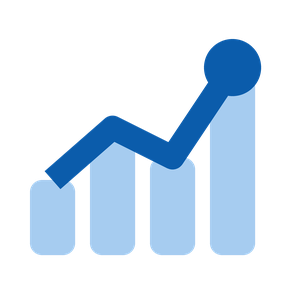
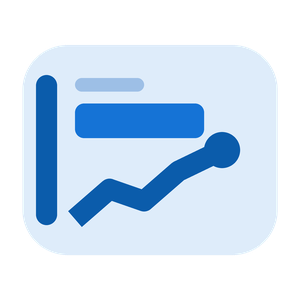
feat: novo icone (cartao+valor+sparkline), transparencia por cor de fundo e ajustes
Icone redesenhado para representar o KPI Spark Card (cartao com barra de destaque, valor e sparkline). Controle de transparencia (0-100%) para cada cor de fundo (cartao, badges de variancia, fundo da barra de meta, chips). Correcao do email do autor.

diff --git a/src/utils/colorUtils.ts b/src/utils/colorUtils.ts
@@ -13,3 +13,23 @@ export function isValidColor(color: string | undefined | null): boolean {
 export function safeColor(color: string | undefined | null, fallback: string): string {
     return isValidColor(color) ? (color as string) : fallback;
 }
+
+function hexToRgb(hex: string): { r: number; g: number; b: number } | null {
+    if (!HEX_COLOR_REGEX.test(hex)) return null;
+    let h = hex.slice(1);
+    if (h.length === 3) h = h.split("").map((c) => c + c).join("");
+    const n = parseInt(h, 16);
+    return { r: (n >> 16) & 255, g: (n >> 8) & 255, b: n & 255 };
+}
+
+/**
+ * Aplica transparencia (0-100, padrao nativo: 0 = opaco, 100 = totalmente transparente)
+ * a uma cor hex, retornando rgba(). Se a cor nao for hex (ex: ja for rgba), retorna sem alterar.
+ */
+export function applyOpacity(color: string, transparencyPct: number): string {
+    const rgb = hexToRgb(color);
+    if (!rgb) return color;
+    const t = Math.min(100, Math.max(0, transparencyPct));
+    const alpha = Math.round(((100 - t) / 100) * 1000) / 1000;
+    return `rgba(${rgb.r}, ${rgb.g}, ${rgb.b}, ${alpha})`;
+}

diff --git a/src/renderers/cardParts.ts b/src/renderers/cardParts.ts
@@ -11,7 +11,7 @@ import { SparklineBuilder, SparklineType } from "../components/SparklineBuilder"
 import { ProgressBarRenderer } from "../components/ProgressBarRenderer";
 import { valueFormatter } from "powerbi-visuals-utils-formattingutils";
 import { createHTMLElement, createSVGElement, setSVGAttributes } from "../utils/domUtils";
-import { safeColor } from "../utils/colorUtils";
+import { safeColor, applyOpacity } from "../utils/colorUtils";
 import { DEFAULT_COLORS, DEFAULT_LOCALE } from "../constants";
 
 export interface RenderContext {
@@ -80,7 +80,7 @@ export function buildCardSurface(ctx: RenderContext): CardSurface {
         boxSizing: "border-box",
         width: "100%",
         height: "100%",
-        background: safeColor(s.backgroundColor.value.value, DEFAULT_COLORS.cardBackground),
+        background: applyOpacity(safeColor(s.backgroundColor.value.value, DEFAULT_COLORS.cardBackground), s.backgroundTransparency.value),
         border: `${s.borderWidth.value}px solid ${safeColor(s.borderColor.value.value, DEFAULT_COLORS.cardBorder)}`,
         borderRadius: `${s.borderRadius.value}px`,
         overflow: "hidden",
@@ -184,13 +184,13 @@ export function buildVarianceBadge(ctx: RenderContext): HTMLElement | null {
     let bg: string;
     if (result.direction === "neutral") {
         color = safeColor(vs.colorNeutral.value.value, DEFAULT_COLORS.varNeutralText);
-        bg = safeColor(vs.bgNeutral.value.value, DEFAULT_COLORS.varNeutralBg);
+        bg = applyOpacity(safeColor(vs.bgNeutral.value.value, DEFAULT_COLORS.varNeutralBg), vs.bgNeutralTransparency.value);
     } else if (result.isGood) {
         color = safeColor(vs.colorPositive.value.value, DEFAULT_COLORS.varPositiveText);
-        bg = safeColor(vs.bgPositive.value.value, DEFAULT_COLORS.varPositiveBg);
+        bg = applyOpacity(safeColor(vs.bgPositive.value.value, DEFAULT_COLORS.varPositiveBg), vs.bgPositiveTransparency.value);
     } else {
         color = safeColor(vs.colorNegative.value.value, DEFAULT_COLORS.varNegativeText);
-        bg = safeColor(vs.bgNegative.value.value, DEFAULT_COLORS.varNegativeBg);
+        bg = applyOpacity(safeColor(vs.bgNegative.value.value, DEFAULT_COLORS.varNegativeBg), vs.bgNegativeTransparency.value);
     }
 
     // Indicador configuravel: triangulo (▲▼), seta (↑↓) ou nenhum (+/- como sinal nao-baseado-em-cor).
@@ -322,7 +322,7 @@ export function buildProgress(ctx: RenderContext): HTMLElement | null {
         label: ValueFormatter.sanitizeText(t.targetLabel.value),
         formattedTarget,
         barColor: safeColor(t.targetBarColor.value.value, DEFAULT_COLORS.targetBarFill),
-        barBgColor: safeColor(t.targetBarBgColor.value.value, DEFAULT_COLORS.targetBarBg),
+        barBgColor: applyOpacity(safeColor(t.targetBarBgColor.value.value, DEFAULT_COLORS.targetBarBg), t.targetBarBgTransparency.value),
         exceededColor: safeColor(t.targetColorExceeded.value.value, DEFAULT_COLORS.targetExceeded),
         barHeight: t.targetBarHeight.value,
         barRadius: t.targetBarRadius.value,
@@ -377,7 +377,7 @@ export function buildSecondary(ctx: RenderContext): HTMLElement | null {
             display: "flex",
             flexDirection: "column",
             gap: "1px",
-            background: safeColor(sc.secondaryBgColor.value.value, DEFAULT_COLORS.secondaryBg),
+            background: applyOpacity(safeColor(sc.secondaryBgColor.value.value, DEFAULT_COLORS.secondaryBg), sc.secondaryBgTransparency.value),
             borderRadius: "6px",
             padding: "4px 8px",
             minWidth: "0",

diff --git a/src/settings.ts b/src/settings.ts
@@ -100,6 +100,7 @@ class LayoutCard extends Card {
 
 class CardStyleCard extends Card {
     backgroundColor = fxColor("backgroundColor", "Cor de fundo", DEFAULT_COLORS.cardBackground);
+    backgroundTransparency = new NumUpDown({ name: "backgroundTransparency", displayName: "Transparencia do fundo (%)", value: 0, options: num(0, 100) });
     borderColor = fxColor("borderColor", "Cor da borda", DEFAULT_COLORS.cardBorder);
     borderWidth = new NumUpDown({ name: "borderWidth", displayName: "Largura da borda (px)", value: 1, options: num(0, 4) });
     borderRadius = new NumUpDown({ name: "borderRadius", displayName: "Raio dos cantos (px)", value: 12, options: num(0, 20) });
@@ -109,7 +110,7 @@ class CardStyleCard extends Card {
     padding = new NumUpDown({ name: "padding", displayName: "Padding interno (px)", value: 16, options: num(4, 32) });
     name = "card";
     displayName = "Cartao";
-    slices = [this.backgroundColor, this.borderColor, this.borderWidth, this.borderRadius, this.accentBarEnabled, this.accentBarColor, this.accentBarWidth, this.padding];
+    slices = [this.backgroundColor, this.backgroundTransparency, this.borderColor, this.borderWidth, this.borderRadius, this.accentBarEnabled, this.accentBarColor, this.accentBarWidth, this.padding];
 }
 
 // --- Card 3: category --------------------------------------------------------
@@ -189,16 +190,19 @@ class VarianceCard extends Card {
     positiveIsGood = new ToggleSwitch({ name: "positiveIsGood", displayName: "Positivo = favoravel", value: true });
     colorPositive = fxColor("colorPositive", "Cor positiva", DEFAULT_COLORS.varPositiveText);
     bgPositive = fxColor("bgPositive", "Fundo positivo", DEFAULT_COLORS.varPositiveBg);
+    bgPositiveTransparency = new NumUpDown({ name: "bgPositiveTransparency", displayName: "Transparencia fundo positivo (%)", value: 0, options: num(0, 100) });
     colorNegative = fxColor("colorNegative", "Cor negativa", DEFAULT_COLORS.varNegativeText);
     bgNegative = fxColor("bgNegative", "Fundo negativo", DEFAULT_COLORS.varNegativeBg);
+    bgNegativeTransparency = new NumUpDown({ name: "bgNegativeTransparency", displayName: "Transparencia fundo negativo (%)", value: 0, options: num(0, 100) });
     colorNeutral = fxColor("colorNeutral", "Cor neutra", DEFAULT_COLORS.varNeutralText);
     bgNeutral = fxColor("bgNeutral", "Fundo neutro", DEFAULT_COLORS.varNeutralBg);
+    bgNeutralTransparency = new NumUpDown({ name: "bgNeutralTransparency", displayName: "Transparencia fundo neutro (%)", value: 0, options: num(0, 100) });
     font = makeFont(6, 12, 8, true);
     neutralThreshold = new NumUpDown({ name: "neutralThreshold", displayName: "Limiar neutro (%)", value: 0.5, options: num(0, 5) });
     topLevelSlice = this.varianceEnabled;
     name = "variance";
     displayName = "Variancia";
-    slices = [this.varianceMode, this.varianceLabel, this.varianceIndicator, this.positiveIsGood, this.colorPositive, this.bgPositive, this.colorNegative, this.bgNegative, this.colorNeutral, this.bgNeutral, this.font, this.neutralThreshold];
+    slices = [this.varianceMode, this.varianceLabel, this.varianceIndicator, this.positiveIsGood, this.colorPositive, this.bgPositive, this.bgPositiveTransparency, this.colorNegative, this.bgNegative, this.bgNegativeTransparency, this.colorNeutral, this.bgNeutral, this.bgNeutralTransparency, this.font, this.neutralThreshold];
 }
 
 // --- Card 7: target ----------------------------------------------------------
@@ -208,6 +212,7 @@ class TargetCard extends Card {
     targetLabel = new TextInput({ name: "targetLabel", displayName: "Rotulo da meta", value: "Meta", placeholder: "Meta" });
     targetBarColor = fxColor("targetBarColor", "Cor de preenchimento", DEFAULT_COLORS.targetBarFill);
     targetBarBgColor = fxColor("targetBarBgColor", "Cor do fundo da barra", DEFAULT_COLORS.targetBarBg);
+    targetBarBgTransparency = new NumUpDown({ name: "targetBarBgTransparency", displayName: "Transparencia fundo da barra (%)", value: 0, options: num(0, 100) });
     targetBarHeight = new NumUpDown({ name: "targetBarHeight", displayName: "Altura da barra (px)", value: 4, options: num(2, 10) });
     targetBarRadius = new NumUpDown({ name: "targetBarRadius", displayName: "Raio dos cantos (px)", value: 2, options: num(0, 5) });
     font = makeFont(6, 11, 8, false);
@@ -215,7 +220,7 @@ class TargetCard extends Card {
     topLevelSlice = this.targetEnabled;
     name = "target";
     displayName = "Meta e Progresso";
-    slices = [this.targetLabel, this.targetBarColor, this.targetBarBgColor, this.targetBarHeight, this.targetBarRadius, this.font, this.targetColorExceeded];
+    slices = [this.targetLabel, this.targetBarColor, this.targetBarBgColor, this.targetBarBgTransparency, this.targetBarHeight, this.targetBarRadius, this.font, this.targetColorExceeded];
 }
 
 // --- Card 8: sparkline -------------------------------------------------------
@@ -288,6 +293,7 @@ class SecondaryCard extends Card {
     }));
     decimals = [1, 2, 3, 4].map((i) => new NumUpDown({ name: `decimals${i}`, displayName: `KPI ${i} - Casas decimais (manual)`, value: 1, options: num(0, 4) }));
     secondaryBgColor = fxColor("secondaryBgColor", "Cor de fundo dos chips", DEFAULT_COLORS.secondaryBg);
+    secondaryBgTransparency = new NumUpDown({ name: "secondaryBgTransparency", displayName: "Transparencia fundo dos chips (%)", value: 0, options: num(0, 100) });
     secondaryLabelSize = new NumUpDown({ name: "secondaryLabelSize", displayName: "Tamanho do rotulo (pt)", value: 8, options: num(6, 11) });
     secondaryLabelColor = fxColor("secondaryLabelColor", "Cor do rotulo", DEFAULT_COLORS.secondaryLabel);
     secondaryValueSize = new NumUpDown({ name: "secondaryValueSize", displayName: "Tamanho do valor (pt)", value: 10, options: num(8, 14) });
@@ -301,7 +307,7 @@ class SecondaryCard extends Card {
         this.formatMode[1], this.displayUnits[1], this.decimals[1],
         this.formatMode[2], this.displayUnits[2], this.decimals[2],
         this.formatMode[3], this.displayUnits[3], this.decimals[3],
-        this.secondaryBgColor, this.secondaryLabelSize, this.secondaryLabelColor,
+        this.secondaryBgColor, this.secondaryBgTransparency, this.secondaryLabelSize, this.secondaryLabelColor,
         this.secondaryValueSize, this.secondaryValueColor, this.secondaryValueBold,
     ];
 }

diff --git a/test/components.test.ts b/test/components.test.ts
@@ -1,4 +1,4 @@
-import { isValidColor, safeColor } from "../src/utils/colorUtils";
+import { isValidColor, safeColor, applyOpacity } from "../src/utils/colorUtils";
 import { LicenseGuard } from "../src/components/LicenseGuard";
 import { applyWatermark } from "../src/components/watermark";
 import { ProgressBarRenderer } from "../src/components/ProgressBarRenderer";
@@ -16,6 +16,17 @@ describe("colorUtils", () => {
     test("safeColor retorna fallback para cor invalida", () => {
         expect(safeColor("#abc", "#000")).toBe("#abc");
         expect(safeColor("nope", "#000")).toBe("#000");
+    });
+
+    test("applyOpacity converte hex+transparencia em rgba (0=opaco, 100=transparente)", () => {
+        expect(applyOpacity("#185FA5", 0)).toBe("rgba(24, 95, 165, 1)");
+        expect(applyOpacity("#FFFFFF", 50)).toBe("rgba(255, 255, 255, 0.5)");
+        expect(applyOpacity("#000000", 100)).toBe("rgba(0, 0, 0, 0)");
+        expect(applyOpacity("#fff", 0)).toBe("rgba(255, 255, 255, 1)"); // shorthand
+    });
+
+    test("applyOpacity nao altera cor nao-hex", () => {
+        expect(applyOpacity("rgba(1,2,3,0.5)", 50)).toBe("rgba(1,2,3,0.5)");
     });
 });
 

diff --git a/CHANGELOG.md b/CHANGELOG.md
@@ -25,7 +25,8 @@ e [Versionamento Semantico](https://semver.org/lang/pt-BR/).
 - Rodape: campos Periodo e Frequencia com **fx** (medida DAX pode gerar o texto).
 - Ate **4 KPIs secundarios** (secondaryMeasure1..4), cada um com formato proprio.
 - Controles de **fonte completos** (familia, tamanho pt, negrito, italico, sublinhado) nos cards Variancia e Meta e Progresso.
-- Novo icone do visual (sparkline + tendencia KPI, estilo flat nativo) substituindo o placeholder.
+- Novo icone do visual: cartao com barra de destaque + valor + sparkline (estilo flat nativo), substituindo o placeholder.
+- Controle de **transparencia (%)** (campo numerico com setas, 0=opaco / 100=transparente) para cada cor de fundo: cartao, badges de variancia (positivo/negativo/neutro), fundo da barra de meta e chips dos secundarios.
 - Barra de progresso vs. meta com cor condicional ao superar 100%.
 - KPIs secundarios (ate 3 medidas) — feature premium.
 - Barra de destaque (accent bar) lateral configuravel.

diff --git a/README.md b/README.md
@@ -35,7 +35,7 @@ Mapeamento `categorical`, redução `top 500`. `privileges: []`.
 | Card | Principais propriedades |
 |---|---|
 | **Aparência Geral** | layout (Standard/Compacto/Split), exibir categoria, exibir rodapé, densidade |
-| **Cartão** | cor de fundo, borda (cor/largura/raio), barra de destaque (on/cor/largura), padding |
+| **Cartão** | cor de fundo + **transparência (%)**, borda (cor/largura/raio), barra de destaque (on/cor/largura), padding |
 | **Categoria** | fonte (família/tamanho pt/N/I/S), cor, alinhamento, CAIXA ALTA |
 | **Título do KPI** | fonte, cor, alinhamento |
 | **Valor Principal** | fonte, cor, alinhamento, unidades (Auto/Mil/Mi/Bi), casas decimais, prefixo, sufixo |
@@ -46,6 +46,7 @@ Mapeamento `categorical`, redução `top 500`. `privileges: []`.
 | **Rodapé** | tamanho pt, cor, cor da linha, período/frequência (texto **ou fx/medida**) |
 
 Todas as propriedades de **cor** têm color picker + **fx** (`instanceKind: ConstantOrRule`).
+Toda **cor de fundo** (cartão, badges de variância, fundo da barra de meta, chips dos secundários) tem um controle de **transparência (%)** próprio.
 
 ## 4. Layouts
 